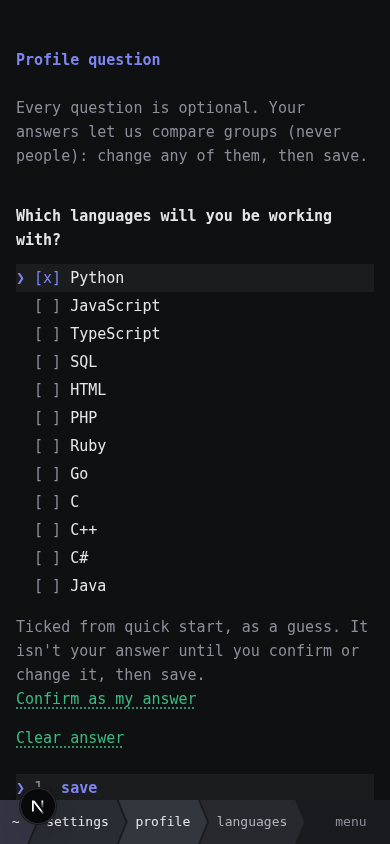
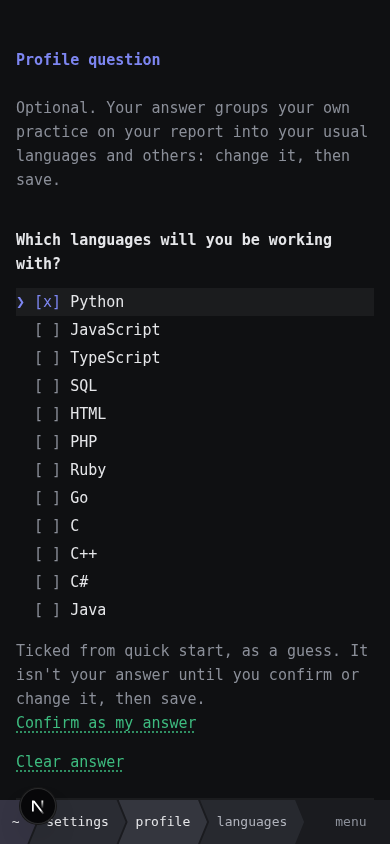
Check Esc from a checkbox and Confirm, and keyboard Confirm to save (ENG-360)

diff --git a/tools/browser/languages-invite-check.ts b/tools/browser/languages-invite-check.ts
@@ -139,27 +139,46 @@ for (const device of DEVICES) {
     }
     await page.waitForURL(/\/settings\/profile\/languages\?from=stats$/);
     await page.getByText("Ticked from quick start, as a guess.").waitFor();
+    const intro = await page.locator(".t-dim").first().innerText();
+    assert.match(intro, /groups your own practice on your report into your usual languages and others/);
+    assert.doesNotMatch(intro, /compare|cohort|unlock/i, "the language route promises only the grouping");
     await noOverflow(page, "form");
     await shot(page, "2-form-guess");
     await page.locator("#profile-0").click();
     await page.getByText("Nothing changed. A guess stays a guess").waitFor();
     assert.equal((await stored(page)).asked.languages, undefined, "viewing and saving nothing never confirms");
 
-    // 3. Cancel from the form: back to the report, unchanged.
+    // 3. Cancel from the form with Esc while on a language checkbox, then while on Confirm: back to the report, unchanged.
     await page.locator("label.t-option", { hasText: "JavaScript" }).click();
-    await page.locator("#profile-0").focus();
+    await page.getByRole("checkbox", { name: /JavaScript/ }).focus();
     await page.keyboard.press("Escape");
     await page.waitForURL(/\/stats#q-languages$/);
     await invite(page).waitFor();
-    assert.deepEqual((await stored(page)).profile.languages, ["python"], "cancel saves nothing");
-    step(`${device.name}: no-op save and Esc cancel keep the guess a guess`);
+    assert.deepEqual((await stored(page)).profile.languages, ["python"], "Esc on a checkbox saves nothing");
+    await page.getByRole("link", { name: /Confirm your languages/ }).click();
+    await page.waitForURL(/from=stats/);
+    await page.getByRole("button", { name: "Confirm as my answer" }).focus();
+    await page.keyboard.press("Escape");
+    await page.waitForURL(/\/stats#q-languages$/);
+    await invite(page).waitFor();
+    assert.equal((await stored(page)).asked.languages, undefined, "Esc on Confirm saves nothing");
+    step(`${device.name}: no-op save, and Esc from a checkbox or from Confirm, keep the guess a guess`);
 
     // 4. Confirm deliberately; unrelated answers keep their provenance; return lands on the answer.
     await page.getByRole("link", { name: /Confirm your languages/ }).click();
     await page.waitForURL(/from=stats/);
-    await tap(device, page, "text=Confirm as my answer");
-    await page.getByText("Confirmed. Save to keep it as your answer.").waitFor();
-    await page.locator("#profile-0").click();
+    if (device.touch) {
+      await tap(device, page, "text=Confirm as my answer");
+      await page.getByText("Confirmed. Save to keep it as your answer.").waitFor();
+      await page.locator("#profile-0").tap();
+    } else {
+      // Keyboard only: Enter on Confirm moves focus to Save; Enter saves.
+      await page.getByRole("button", { name: "Confirm as my answer" }).focus();
+      await page.keyboard.press("Enter");
+      await page.getByText("Confirmed. Save to keep it as your answer.").waitFor();
+      assert.equal(await page.evaluate(() => document.activeElement?.id), "profile-0", "focus lands on Save, not the page");
+      await page.keyboard.press("Enter");
+    }
     await page.getByRole("link", { name: "back to your report" }).first().waitFor();
     const confirmed = await stored(page);
     assert.deepEqual(confirmed.profile, { languages: ["python"], editor: "vim" });
@@ -220,6 +239,9 @@ for (const device of DEVICES) {
     await page.getByText("Done. Progress cleared.").waitFor();
     assert.equal(await page.evaluate(() => localStorage.getItem("muscle-memory.dismissed")), '["languages"]');
     step(`${device.name}: reset keeps the hidden choice`);
+    await page.goto(`${origin}/settings/profile`);
+    await page.getByText("Every question is optional. Your answers let us compare groups (never people)").waitFor();
+    step(`${device.name}: the all-questions form keeps its own introduction`);
     await context.close();
   }
 

diff --git a/docs/eng-360/README.md b/docs/eng-360/README.md
@@ -1,6 +1,6 @@
 # ENG-360 evidence: the languages invitation
 
-Synthetic only: a seeded profile (Python as an unconfirmed quick-start guess, editor answered) and one fixture JavaScript attempt, in fresh Chromium contexts on a synthetic catalog. Every off-origin and history request was stopped in the browser. Produced by `tools/browser/languages-invite-check.ts` (40 checks over desktop 1280, phone 390, phone 320 and phone landscape 844×390, all passed). WebKit couldn't run on the QA host, and no real devices were used.
+Synthetic only: a seeded profile (Python as an unconfirmed quick-start guess, editor answered) and one fixture JavaScript attempt, in fresh Chromium contexts on a synthetic catalog. Every off-origin and history request was stopped in the browser. Produced by `tools/browser/languages-invite-check.ts` (44 checks over desktop 1280, phone 390, phone 320 and phone landscape 844×390, all passed). WebKit couldn't run on the QA host, and no real devices were used.
 
 | Screen | What it shows |
 | --- | --- |
